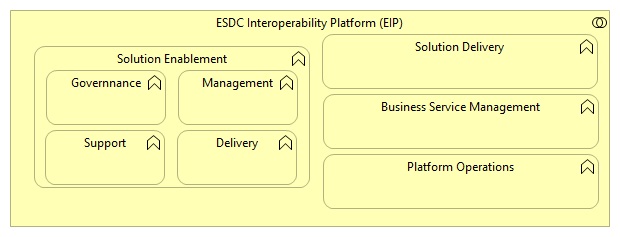
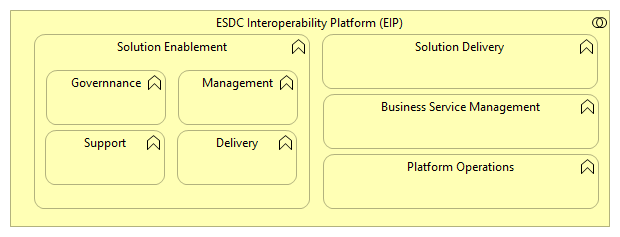
platform operation descriptions

diff --git a/ReleaseCandidate Report/3586dd56-a7ec-496a-a1c0-4633ed13b319/elements/model.html b/ReleaseCandidate Report/3586dd56-a7ec-496a-a1c0-4633ed13b319/elements/model.html
@@ -201,7 +201,7 @@
 								dataFoldersContent.push({folderid:"3586dd56-a7ec-496a-a1c0-4633ed13b319", contentid:"3ed9d441-8195-42f6-879d-77a24c46fb68", contenttype:"Folder"});
 								dataFolders.push({id:"3ed9d441-8195-42f6-879d-77a24c46fb68", type:"Folder", name:decodeURL("Views"), documentation:decodeURL("")});
 									dataFoldersContent.push({folderid:"3ed9d441-8195-42f6-879d-77a24c46fb68", contentid:"d619622a-1016-4a7b-a9e9-51d71c8e585f", contenttype:"ArchimateDiagramModel"});
-										dataViews.push({id:"d619622a-1016-4a7b-a9e9-51d71c8e585f", type:"ArchimateDiagramModel", name:decodeURL("DevOps+High+Level+Flow"), documentation:decodeURL("")});
+										dataViews.push({id:"d619622a-1016-4a7b-a9e9-51d71c8e585f", type:"ArchimateDiagramModel", name:decodeURL("DevOps+High+Level+Flow"), documentation:decodeURL("Key+business+functions+and+flow+for+implementing+DevOps+at+ESDC.+This+view+is+used+to+discuss+the+most+basic%2C+coarse+grained+functions+required++by+service+providers.")});
 												dataViewsContent.push({viewid:"d619622a-1016-4a7b-a9e9-51d71c8e585f", contentid:"1c6cef97-1aad-4397-a6f1-233de1377b9e", contenttype:"DiagramModelArchimateObject"});
 												dataViewsContent.push({viewid:"d619622a-1016-4a7b-a9e9-51d71c8e585f", contentid:"48b7e08c-7b7a-4688-9c2c-f993f89365b5", contenttype:"DiagramModelArchimateObject"});
 												dataViewsContent.push({viewid:"d619622a-1016-4a7b-a9e9-51d71c8e585f", contentid:"cb6572cd-20df-4e2a-80bf-4934fcdd673c", contenttype:"DiagramModelArchimateObject"});
@@ -237,7 +237,7 @@
 
 
 									dataFoldersContent.push({folderid:"3ed9d441-8195-42f6-879d-77a24c46fb68", contentid:"f9f6ac39-2492-455d-ad09-70b0ddf2eef5", contenttype:"ArchimateDiagramModel"});
-										dataViews.push({id:"f9f6ac39-2492-455d-ad09-70b0ddf2eef5", type:"ArchimateDiagramModel", name:decodeURL("EIP+High+Level+Business+Functions"), documentation:decodeURL("")});
+										dataViews.push({id:"f9f6ac39-2492-455d-ad09-70b0ddf2eef5", type:"ArchimateDiagramModel", name:decodeURL("EIP+High+Level+Business+Functions"), documentation:decodeURL("Key+business+collaberation+and+functions+for+the++ESDC+Interoprability+Platform+%28EIP.+This+view+is+used+to+discuss+the+most+basic%2C+coarse+grained+functions+required++by+EIP+for+delivery+of+services.")});
 												dataViewsContent.push({viewid:"f9f6ac39-2492-455d-ad09-70b0ddf2eef5", contentid:"1a3025fa-1978-4036-b8a0-d681ca788229", contenttype:"DiagramModelArchimateObject"});
 														dataViewsContent.push({viewid:"f9f6ac39-2492-455d-ad09-70b0ddf2eef5", contentid:"5e99ee30-0fb5-4d1a-aa6c-3fee8a54ca55", contenttype:"DiagramModelArchimateObject"});
 														dataViewsContent.push({viewid:"f9f6ac39-2492-455d-ad09-70b0ddf2eef5", contentid:"071bbc04-8a2c-4b57-ba54-e594f29a3f28", contenttype:"DiagramModelArchimateObject"});

diff --git a/ReleaseCandidate Report/3586dd56-a7ec-496a-a1c0-4633ed13b319/views/f9f6ac39-2492-455d-ad09-70b0ddf2eef5.html b/ReleaseCandidate Report/3586dd56-a7ec-496a-a1c0-4633ed13b319/views/f9f6ac39-2492-455d-ad09-70b0ddf2eef5.html
@@ -39,7 +39,7 @@
 				  						<area shape="rect" coords="45,130,165,185" href="../elements/cc646ce2-f9ec-487f-b58a-fd31b7473c4b.html"  target="element">
 				  						<area shape="rect" coords="46,70,166,125" href="../elements/ff622d6f-caf0-4554-9fb9-8b9aac9a5e95.html"  target="element">
 
-				  				<area shape="rect" coords="34,46,310,188" href="../elements/97ff8771-f868-4a6b-ba38-43531ce4a85e.html"  target="element">
+				  				<area shape="rect" coords="34,34,310,209" href="../elements/97ff8771-f868-4a6b-ba38-43531ce4a85e.html"  target="element">
 				  				<area shape="rect" coords="323,94,599,149" href="../elements/661f5bf5-25ee-4555-a6d0-d00a8ca77bfa.html"  target="element">
 				  				<area shape="rect" coords="323,154,599,209" href="../elements/ceec05f0-d4e7-4aba-a1f0-6e5035049d72.html"  target="element">
 				  				<area shape="rect" coords="322,34,598,89" href="../elements/f9b2ee93-aa2f-4ece-ad00-20baa7a270df.html"  target="element">
@@ -65,7 +65,7 @@
 				<!-- Tab panes -->
 				<div class="tab-content">
 					<div role="tabpanel" class="tab-pane active" id="documentation">
-						<textarea id="docsrc" style="display:none"></textarea>
+						<textarea id="docsrc" style="display:none">Key business collaberation and functions for the  ESDC Interoprability Platform (EIP. This view is used to discuss the most basic, coarse grained functions required  by EIP for delivery of services.</textarea>
 						<div id="doctgt" style="white-space:pre-wrap"></div>
 					</div>
 					<div role="tabpanel" class="tab-pane" id="properties">

diff --git a/ReleaseCandidate Report/3586dd56-a7ec-496a-a1c0-4633ed13b319/views/d619622a-1016-4a7b-a9e9-51d71c8e585f.html b/ReleaseCandidate Report/3586dd56-a7ec-496a-a1c0-4633ed13b319/views/d619622a-1016-4a7b-a9e9-51d71c8e585f.html
@@ -64,7 +64,7 @@
 				<!-- Tab panes -->
 				<div class="tab-content">
 					<div role="tabpanel" class="tab-pane active" id="documentation">
-						<textarea id="docsrc" style="display:none"></textarea>
+						<textarea id="docsrc" style="display:none">Key business functions and flow for implementing DevOps at ESDC. This view is used to discuss the most basic, coarse grained functions required  by service providers.</textarea>
 						<div id="doctgt" style="white-space:pre-wrap"></div>
 					</div>
 					<div role="tabpanel" class="tab-pane" id="properties">
